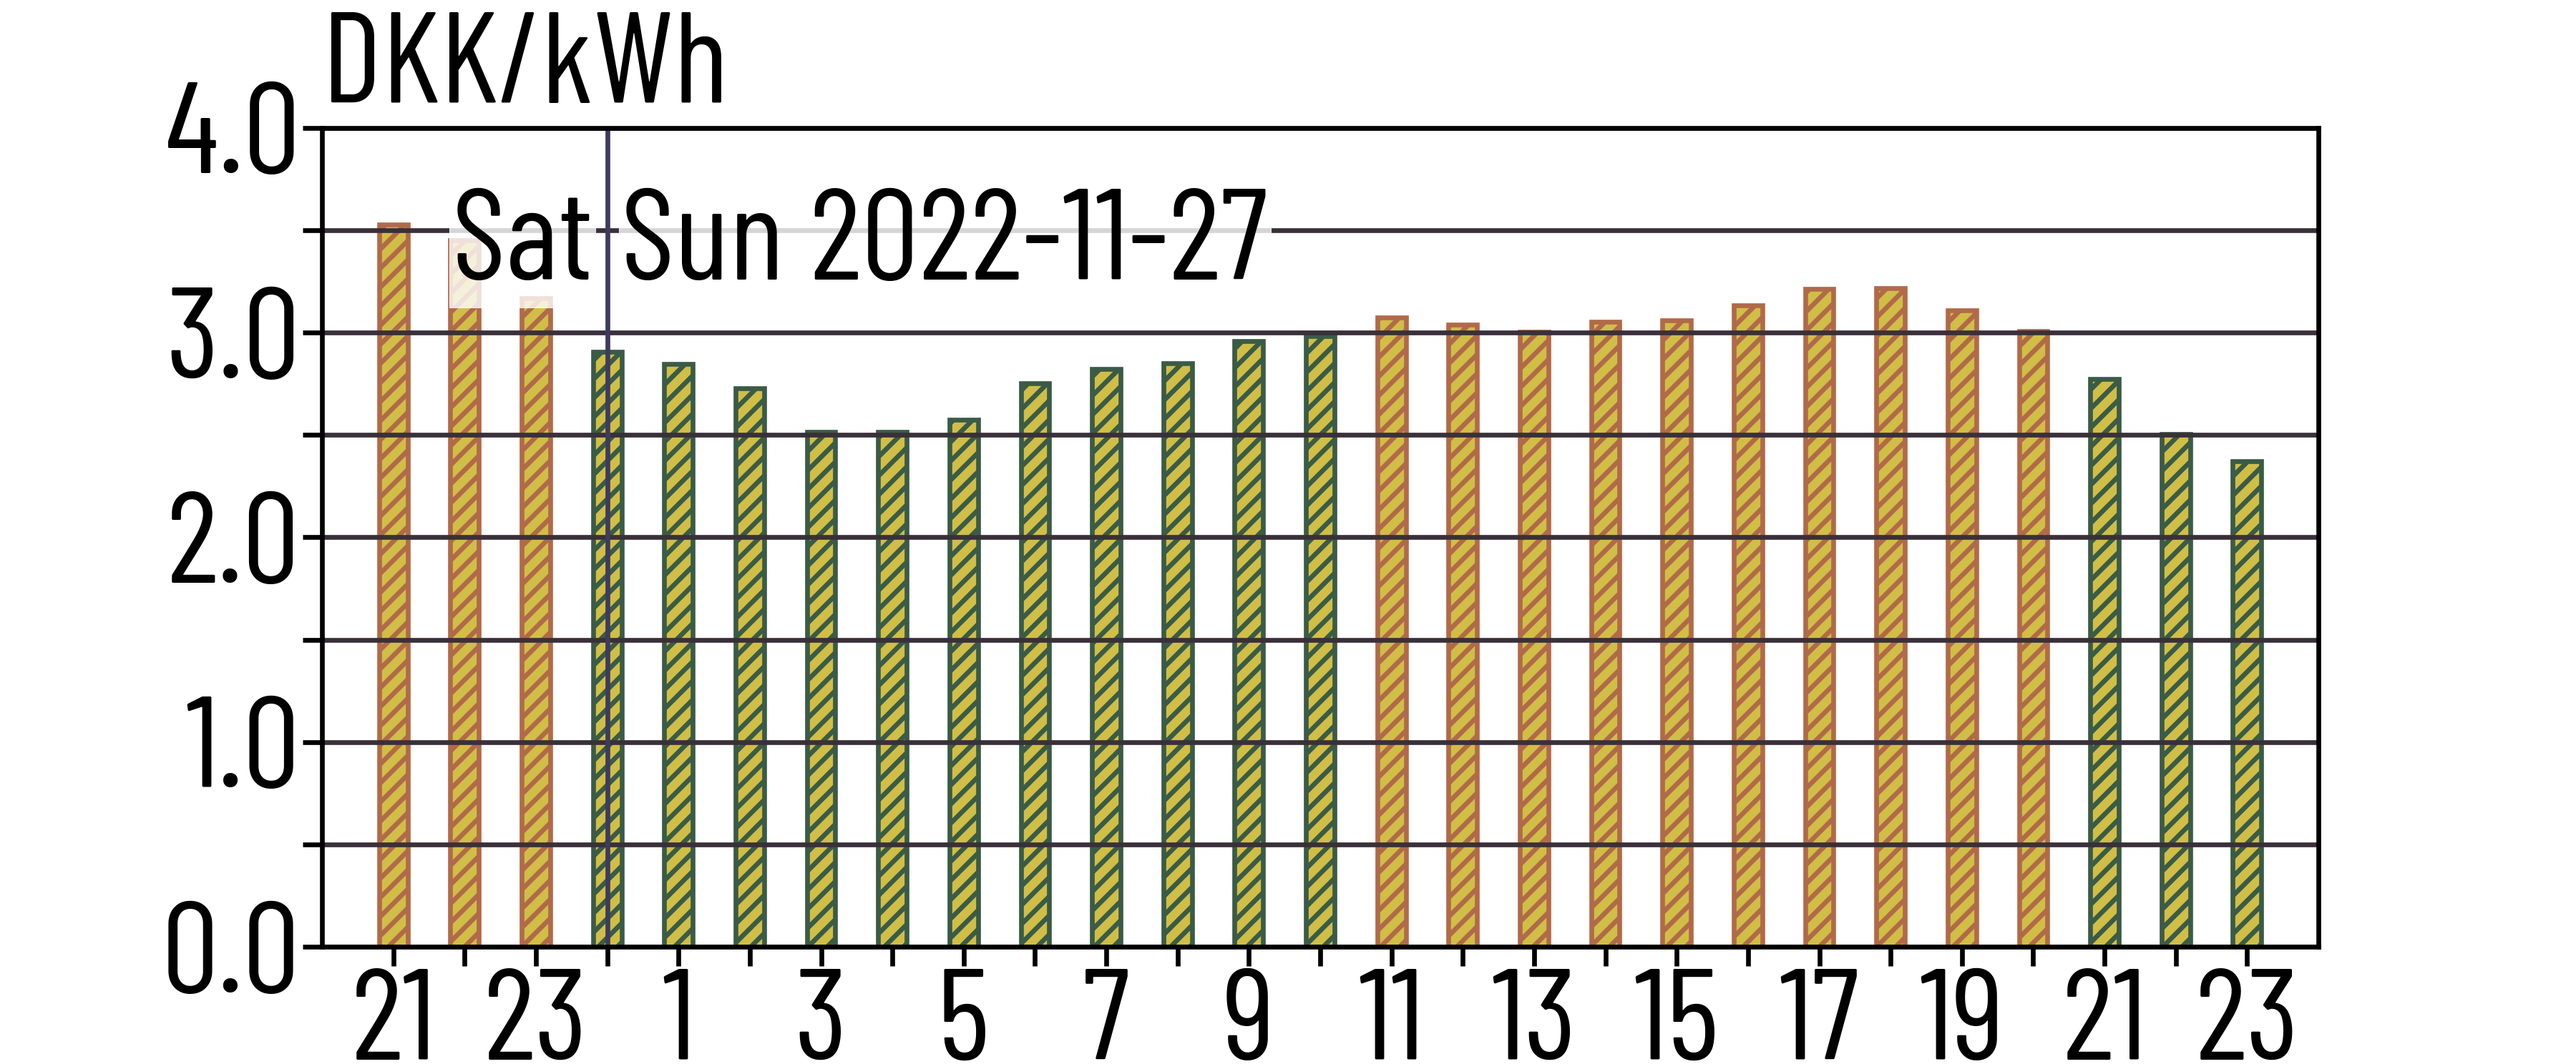
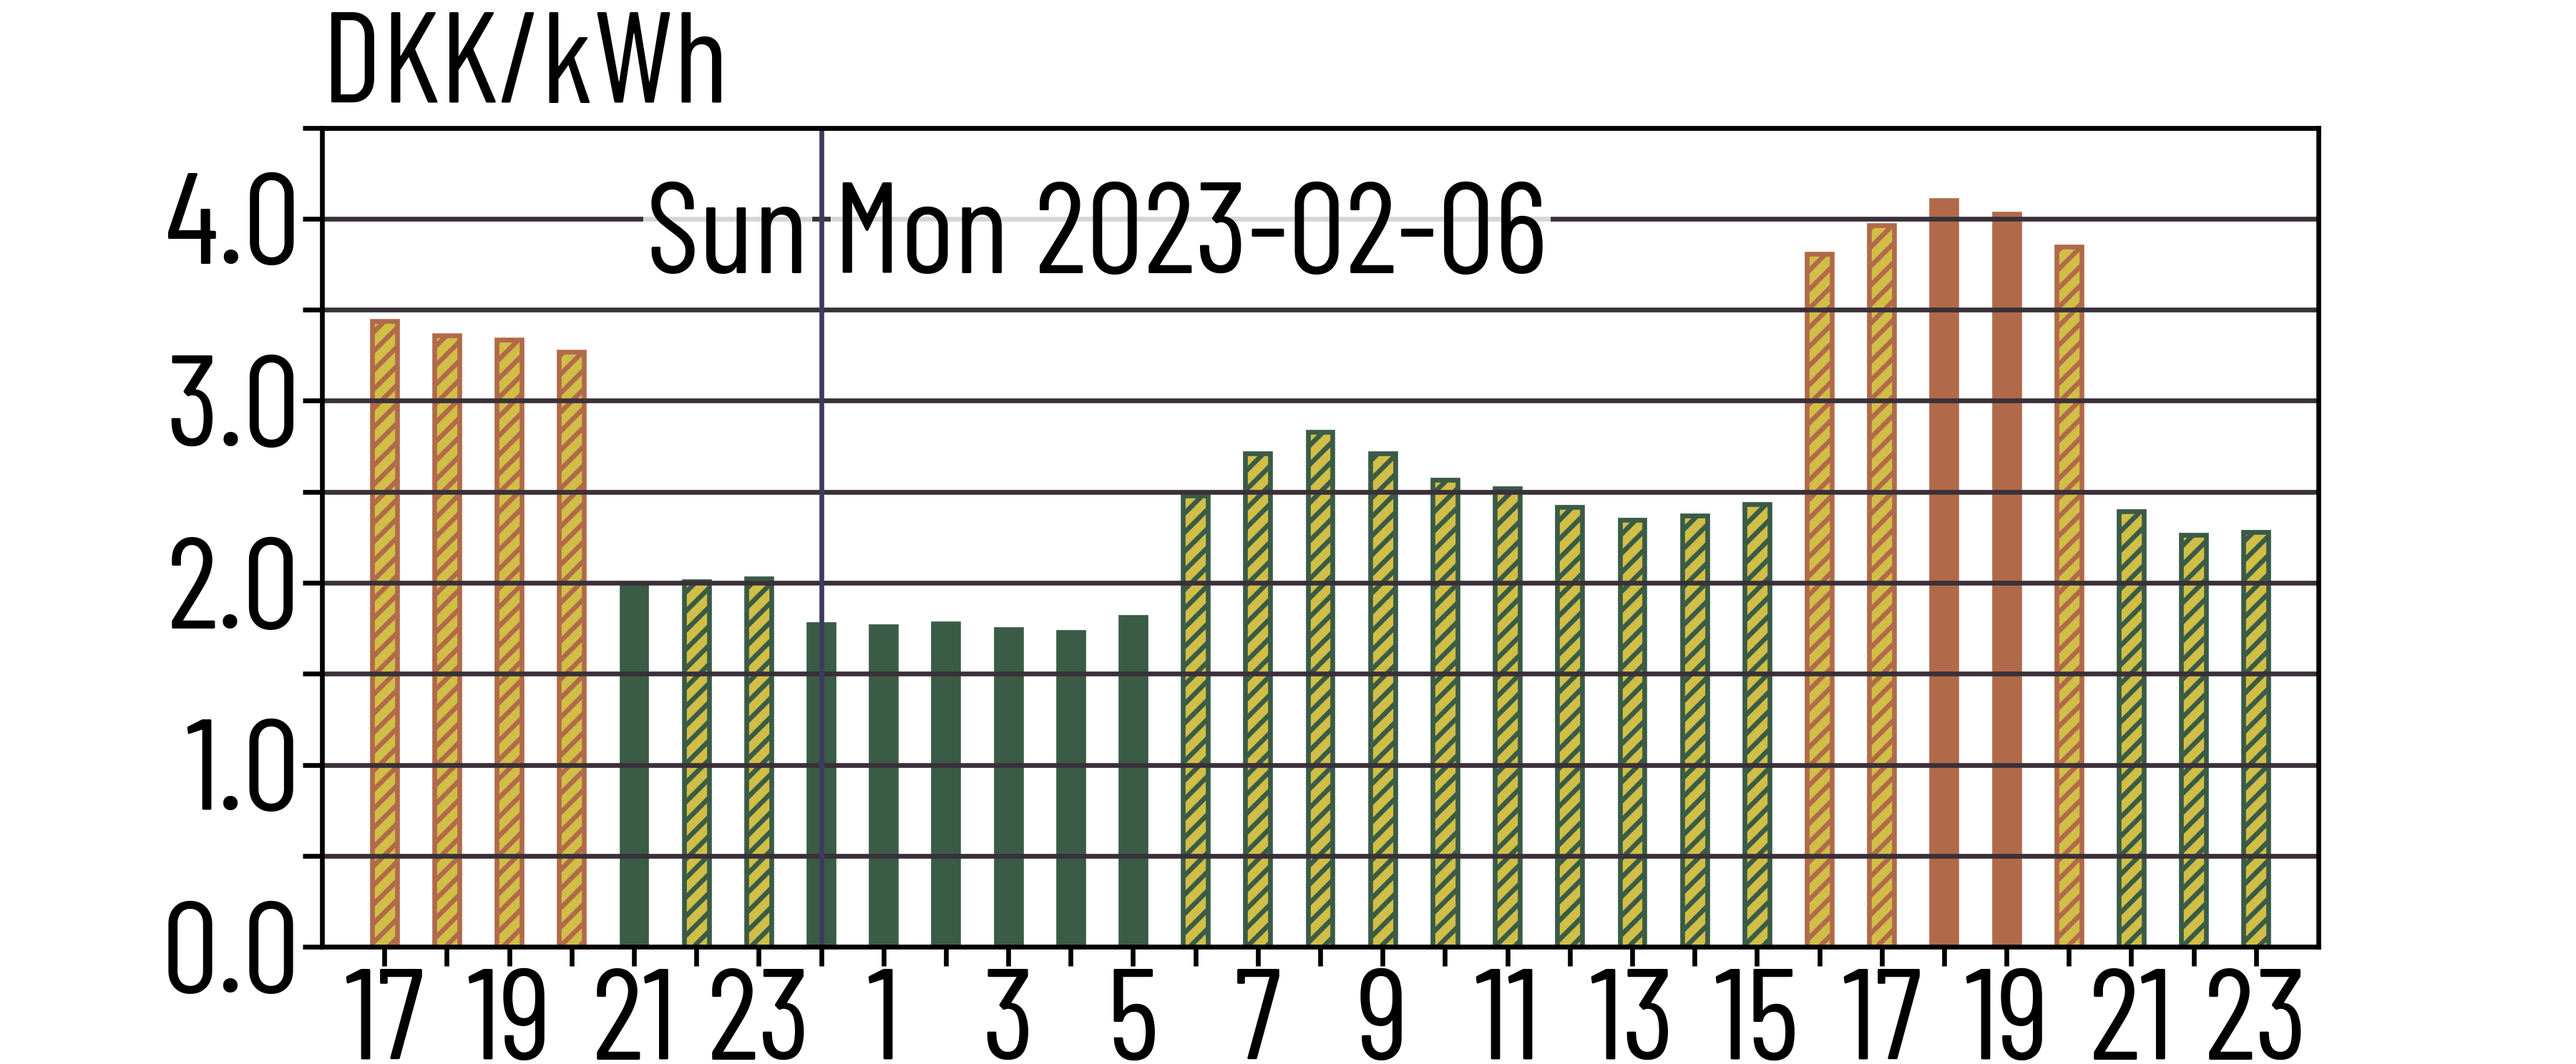
andel, old api

diff --git a/eInk-weather-display/Electricity.py b/eInk-weather-display/Electricity.py
@@ -35,7 +35,7 @@ PALETTE = {
 link = 'https://andelenergi.dk/?obexport_format=csv&obexport_start=2022-08-10&obexport_end=2022-08-18&obexport_region=east'
 
 region = 'east'
-transport_overhead = 1.59 #DKK
+transport_tarrifs = [0.79, 2.06, 0.79, 0.37]  # Day, Evening, Late Evening, Night
 
 logger = logging.getLogger(__name__)
 logger.info('Getting price data')
@@ -64,13 +64,22 @@ def get_El_price(start_date, end_date, region):
     df['Time'] = times.time.astype(str)
     df['Hour'] = times.hour.astype(str)
     df['Datetime'] = pd.to_datetime(df['Date'] + ' ' +df['Time'])
-    df['Price'] = el_data2_st.values+transport_overhead
+    df['Price_el'] = el_data2_st.values
     df['Weekday'] = df['Datetime'].dt.day_name()
     df['Weekday'] = df['Weekday'].str.slice(0, 3)
     df['WeekHour'] = df['Weekday']+df['Hour']
+    print(df["Hour"].astype(int))
+    transport_hour_ranges = [
+        (df["Hour"].astype(int)>=6) & (df["Hour"].astype(int)<16),   # Day
+        (df["Hour"].astype(int)>=16) & (df["Hour"].astype(int)<21),  # Evening
+        (df["Hour"].astype(int)>=21) & (df["Hour"].astype(int)<24),  # Late Evening
+        (df["Hour"].astype(int)>=0) & (df["Hour"].astype(int)<6)    # Night
+    ]
+    df['Tariff'] = np.select(transport_hour_ranges, transport_tarrifs)
+    df['Price'] = df['Price_el'] + df['Tariff']
 
 
-    df_future = df[df['Datetime']>str(datetime.now()+timedelta(hours=-2))]
+    df_future = df[df['Datetime']>str(datetime.now()+timedelta(hours=-1))]
     df_future.reset_index(drop=True,inplace=True)
     new_data = False
     tomorrow = str(datetime.now().date()+timedelta(days=1)) 

diff --git a/eInk-weather-display/weather-display.py b/eInk-weather-display/weather-display.py
@@ -68,7 +68,7 @@ def main():
 
       logger.info('Starting scheduler')
       scheduler = BlockingScheduler()
-      scheduler.add_job(lambda: main_loop(panel_size, fonts, images, config, inky), 'cron', hour='15', minute = '45')
+      scheduler.add_job(lambda: main_loop(panel_size, fonts, images, config, inky), 'cron', hour='17', minute = '01')
       scheduler.start()
 
   except FileNotFoundError as e:
